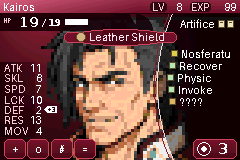
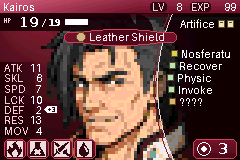
Iconos de habilidad (negativo) en los 4 botones
Claude-Session: https://claude.ai/code/session_01C4QAM7MwvCQVjJLG12SBSt

Changed region(s): [[0.0292, 0.875, 0.2917, 1.0], [0.3208, 0.875, 0.4083, 1.0]]

diff --git a/gba_status/generar.py b/gba_status/generar.py
@@ -185,10 +185,18 @@ def boton(x0, y0, x1, y1, rad=5):  # caja redondeada con degradado vertical
     mk = Image.new("L", g.size, 0); ImageDraw.Draw(mk).rounded_rectangle([0, 0, g.width - 1, g.height - 1], rad, fill=255)
     img.paste(g, (x0, y0), mk)
     d.rounded_rectangle([x0, y0, x1, y1], rad, outline=FR)
-for i, ic in enumerate(["+", "o", "#", "="]):
+# iconos de habilidad: 4 del negativo (fila de abajo de iconos_skills.webp)
+hoja = Image.open("iconos_skills.webp").convert("L")
+def icono(n, lado=16):
+    x0 = round(18 + n * 141.7)
+    t_ = hoja.crop((x0, 326, x0 + 118, 448)).resize((lado, lado), Image.LANCZOS)
+    return t_.point(lambda v: 255 if v > 128 else 0)  # 2 colores
+ICONOS = [icono(n) for n in (0, 1, 4, 9)]  # fuego, frasco, espadas, gota
+for i, ic in enumerate(ICONOS):
     x = 4 + i * 23.5; x = int(x)
     boton(x, 139, x + 21, 158)
-    t(x + 8, 143, ic)
+    img.paste(Image.new("RGB", (16, 16), c(232, 216, 216)), (x + 3, 141))       # cuadro claro
+    img.paste(Image.new("RGB", (16, 16), c(48, 8, 20)), (x + 3, 141), ic.point(lambda v: 255 - v))  # icono oscuro
 boton(193, 139, 236, 158)
 d.ellipse([197, 142, 210, 155], outline=TXT); d.ellipse([201, 146, 206, 151], fill=TXT)
 d.text((218, 140), "3", font=fb, fill=TXT)
